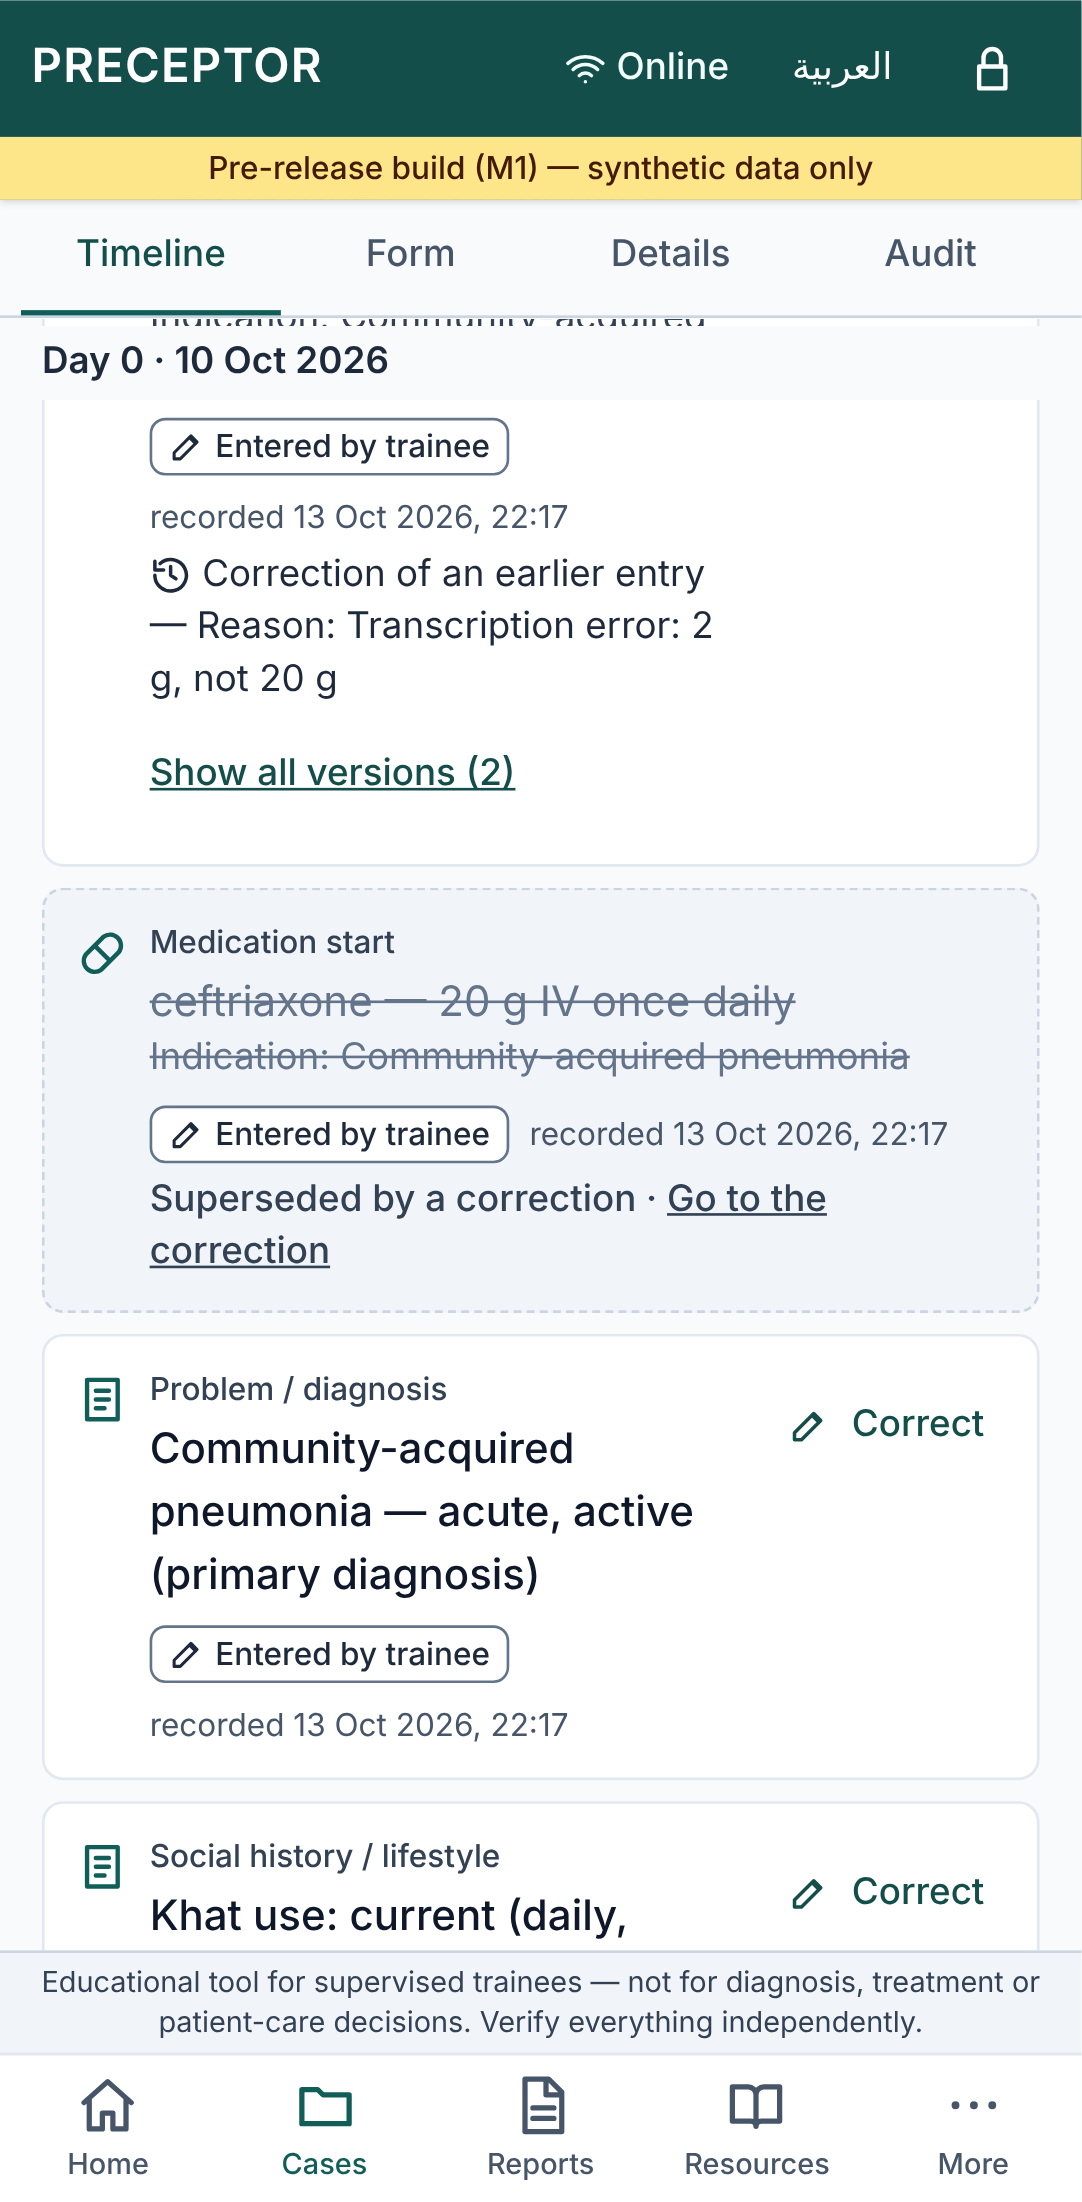
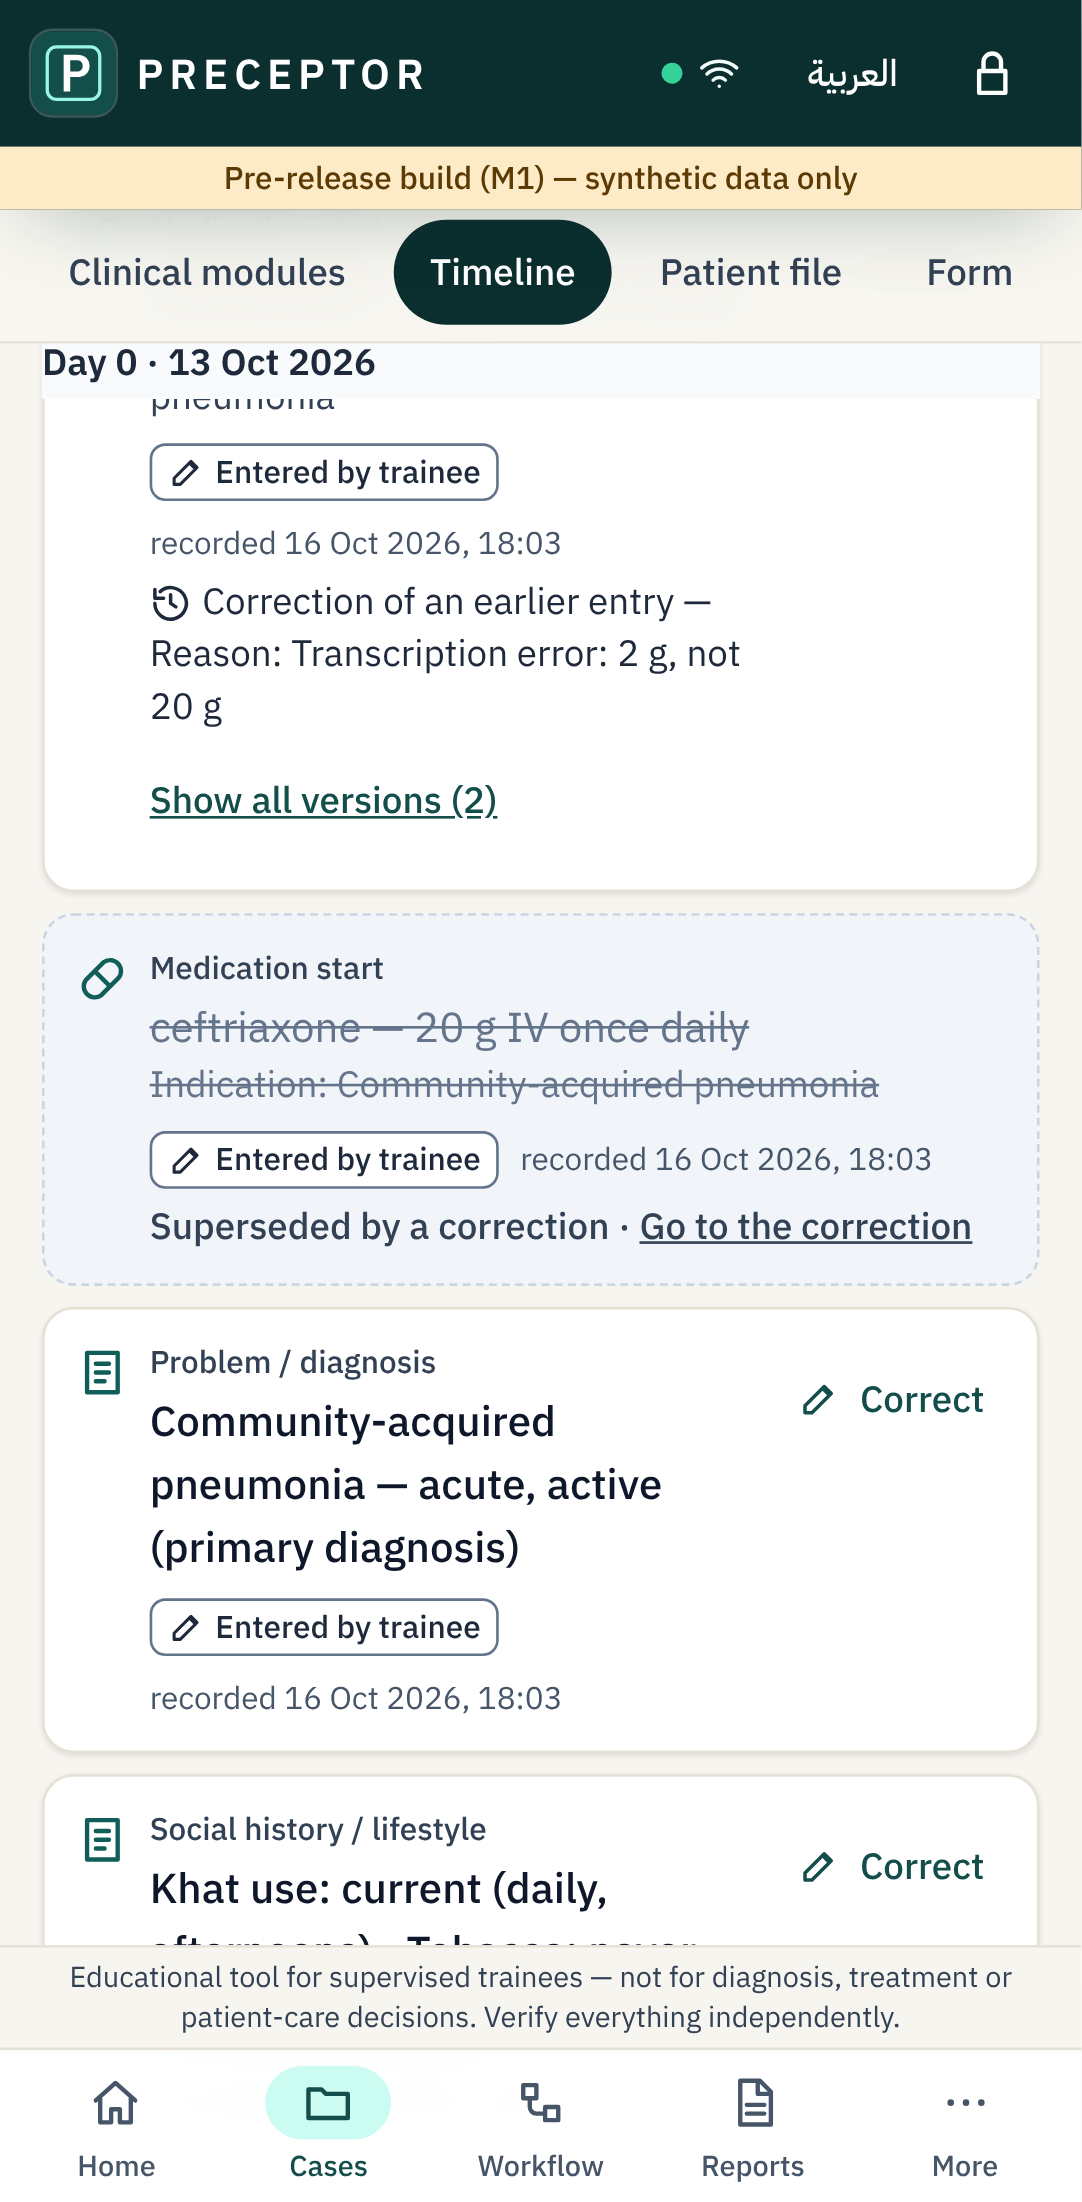
M1 revision: smoke test for all 30 worksheets and 12 registers, library chunks, refreshed screenshots
- New end-to-end test: every task worksheet opens in English and Arabic
  (titles in both languages, per-medication and per-problem rows, no
  untranslated message keys), and every shared register saves a row
  through its editor with an audit record.
- React and Dexie in their own chunks: the main chunk drops from 674 KB
  to 435 KB (no size warning) and an app update re-downloads less.
- Form rows: field label and its link aligned.
- Screenshots in docs/m1/screenshots regenerated from the production
  build in the new design, plus r01-r14 for the revision.

Claude-Session: https://claude.ai/code/session_01FhBYAz582Vt7rXpACugJdp

diff --git a/e2e/m1r-all-tasks.spec.ts b/e2e/m1r-all-tasks.spec.ts
@@ -1,0 +1,149 @@
+/**
+ * Every one of the thirty task worksheets opens and renders in English and in
+ * Arabic, and every shared register accepts a row through its editor.
+ * The walkthrough in m1r-intake-modules.spec.ts covers the flow in depth; this
+ * file makes sure nothing in the catalogue is left unreachable or broken.
+ */
+import { expect, test, type Page } from '@playwright/test';
+import { TASK_ORDER } from '../src/domain/workflow/catalogue';
+import { isFieldVisible, REGISTERS, type FieldDef } from '../src/domain/workflow/registers';
+import { createCase, createRotation, onboard, watchPage } from './helpers';
+
+/** An untranslated message key on screen, such as "task.save". */
+const RAW_KEY = /\b(?:task|modules|item|source|check|form|intake|panel|reg|err|workflow)\.[a-z][A-Za-z]+(?:\.[A-Za-z_]+)*\b/;
+
+const escape = (s: string) => s.replace(/[.*+?^${}()|[\]\\]/g, '\\$&');
+/** A field label as the editor renders it: the label, with "(optional)" when the field is optional. */
+const labelled = (page: Page, label: string) => page.getByLabel(new RegExp(`^${escape(label)}(?: \\(optional\\))?$`));
+
+async function addEntry(page: Page, caseId: string, fill: (p: Page) => Promise<void>) {
+  await page.goto(`/#/cases/${caseId}/entry/new`);
+  await fill(page);
+  await page.getByRole('button', { name: 'Save entry' }).click();
+  await expect(page).toHaveURL(new RegExp(`#/cases/${caseId}/timeline`));
+}
+
+/** One medication and one problem, so the per-medication and per-problem sections have rows. */
+async function seedTimeline(page: Page, caseId: string) {
+  await addEntry(page, caseId, async (p) => {
+    await p.getByLabel('Entry type').selectOption('note');
+    await p.getByLabel('Hospital day').fill('0');
+    await p.getByLabel('Kind of note').selectOption('problem');
+    await p.getByLabel('Problem or diagnosis').fill('Community-acquired pneumonia');
+    await p.getByRole('radio', { name: 'Acute', exact: true }).check();
+    await p.getByLabel('Status', { exact: true }).selectOption('active');
+  });
+  await addEntry(page, caseId, async (p) => {
+    await p.getByLabel('Entry type').selectOption('med_start');
+    await p.getByLabel('Hospital day').fill('0');
+    await p.getByLabel(/Drug — generic name/).fill('ceftriaxone');
+    await p.getByLabel('Amount', { exact: true }).fill('2');
+    await p.getByLabel('Dose unit', { exact: true }).selectOption('g');
+    await p.getByLabel('Route', { exact: true }).selectOption('IV');
+    await p.getByLabel('Frequency', { exact: true }).selectOption('once daily');
+    await p.getByLabel(/^Indication/).fill('Community-acquired pneumonia');
+  });
+}
+
+/** Fills the required fields of a register row, following the same visibility rules as the editor. */
+async function fillRequired(page: Page, fields: readonly FieldDef[]) {
+  const values: Record<string, string> = {};
+  for (const f of fields) {
+    if (!isFieldVisible(f, values)) continue;
+    const required = f.required || (f.requiredIf ? f.requiredIf.in.includes(values[f.requiredIf.field] ?? '') : false);
+    if (!required) continue;
+    const label = f.label.en;
+    switch (f.kind) {
+      case 'text':
+      case 'longtext':
+        await labelled(page, label).fill('synthetic test value');
+        values[f.id] = 'synthetic test value';
+        break;
+      case 'day':
+        await labelled(page, label).fill('1');
+        values[f.id] = '1';
+        break;
+      case 'choice': {
+        const o = f.options![0];
+        if (f.options!.length <= 6) await page.getByTestId(`field-${f.id}`).getByRole('radio', { name: o.label.en, exact: true }).click();
+        else await labelled(page, label).selectOption(o.value);
+        values[f.id] = o.value;
+        break;
+      }
+      case 'multi': {
+        const o = f.options![0];
+        await page.getByRole('group', { name: label }).getByRole('button', { name: o.label.en, exact: true }).click();
+        values[f.id] = o.value;
+        break;
+      }
+      case 'confirm':
+        await page.getByLabel(label).check();
+        values[f.id] = 'yes';
+        break;
+      default:
+        throw new Error(`No filler for required ${f.kind} field ${f.id}`);
+    }
+  }
+}
+
+test('all thirty task worksheets open in English and in Arabic', async ({ page }) => {
+  test.setTimeout(240_000);
+  const watch = watchPage(page);
+  await onboard(page);
+  await createRotation(page);
+  const caseId = await createCase(page, { kind: 'teaching' });
+  await seedTimeline(page, caseId);
+
+  expect(TASK_ORDER).toHaveLength(30);
+  for (const d of TASK_ORDER) {
+    await page.goto(`/#/cases/${caseId}/task/${d.id}`);
+    const sheet = page.locator(`[data-testid="task-page"][data-task="${d.id}"]`);
+    await expect(sheet).toBeVisible();
+    await expect(sheet.locator('h1')).toContainText(d.title.en);
+    await expect(sheet.locator('h1')).toContainText(d.title.ar);
+    await expect(sheet.getByText('How to do it')).toBeVisible();
+    await expect(sheet.getByRole('button', { name: 'Save', exact: true })).toBeVisible();
+    if (d.perMedication) await expect(sheet).toContainText('ceftriaxone');
+    if (d.perProblem) await expect(sheet).toContainText('Community-acquired pneumonia');
+    expect(await sheet.innerText(), `untranslated text on task ${d.number}`).not.toMatch(RAW_KEY);
+  }
+
+  await page.getByRole('button', { name: 'العربية' }).first().click();
+  await expect(page.locator('html')).toHaveAttribute('dir', 'rtl');
+  for (const d of TASK_ORDER) {
+    await page.goto(`/#/cases/${caseId}/task/${d.id}`);
+    const sheet = page.locator(`[data-testid="task-page"][data-task="${d.id}"]`);
+    await expect(sheet.locator('h1')).toContainText(d.title.ar);
+    await expect(sheet.getByText('كيف تؤدي هذه المهمة')).toBeVisible();
+    expect(await sheet.innerText(), `untranslated text on task ${d.number} (Arabic)`).not.toMatch(RAW_KEY);
+  }
+
+  expect(watch.errors).toEqual([]);
+});
+
+test('every shared register accepts a row through its editor', async ({ page }) => {
+  test.setTimeout(240_000);
+  const watch = watchPage(page);
+  await onboard(page);
+  await createRotation(page);
+  const caseId = await createCase(page, { kind: 'teaching' });
+  await seedTimeline(page, caseId);
+
+  const registers = Object.values(REGISTERS);
+  expect(registers).toHaveLength(12);
+  for (const r of registers) {
+    const task = TASK_ORDER.find((d) => d.registers?.includes(r.id));
+    expect(task, `a task shows the ${r.id} register`).toBeDefined();
+    await page.goto(`/#/cases/${caseId}/item/new/${r.id}?task=${task!.id}`);
+    await expect(page.getByTestId('item-editor')).toBeVisible();
+    await fillRequired(page, r.fields);
+    await page.getByRole('button', { name: 'Save', exact: true }).click();
+    await expect(page, `saving a ${r.id} row returns to task ${task!.number}`).toHaveURL(new RegExp(`#/cases/${caseId}/task/${task!.id}$`));
+    await expect(page.getByTestId(`item-${r.id}`).first()).toBeVisible();
+  }
+
+  // Each row was written once, with an audit record.
+  await page.goto(`/#/cases/${caseId}/audit`);
+  await expect(page.locator('[data-testid="audit-event"][data-entity="item"][data-action="create"]')).toHaveCount(12);
+  expect(watch.errors).toEqual([]);
+});

diff --git a/src/ui/screens/FormTab.tsx b/src/ui/screens/FormTab.tsx
@@ -144,8 +144,8 @@ function FieldRow({ f, caseId, readOnly, draft }: { f: FormFieldView; caseId: st
   const href = f.edit && !readOnly ? editHref(caseId, f.edit) : null;
   const draftKey = f.edit?.kind === 'draft' ? f.edit.key : null;
   return (
-    <div className="flex flex-col gap-1 border-b border-slate-100 py-2 last:border-b-0" data-field={f.key}>
-      <div className="flex items-start justify-between gap-2">
+    <div className="flex flex-col border-b border-slate-100 py-2 last:border-b-0" data-field={f.key}>
+      <div className="flex items-center justify-between gap-2">
         <span className="text-sm font-medium text-slate-700">
           <Label l={f.label} />
         </span>

diff --git a/vite.config.ts b/vite.config.ts
@@ -81,5 +81,14 @@ export default defineConfig({
   build: {
     target: 'es2022',
     sourcemap: false,
+    rollupOptions: {
+      output: {
+        // Libraries change rarely: in their own chunks, an app update re-downloads only the app code.
+        manualChunks: {
+          react: ['react', 'react-dom'],
+          dexie: ['dexie', 'dexie-react-hooks'],
+        },
+      },
+    },
   },
 });
